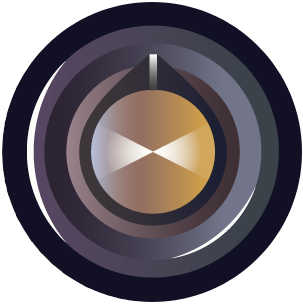
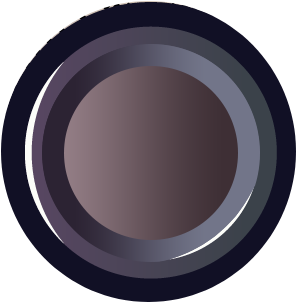
wheel replaced

diff --git a/src/sass/main.scss b/src/sass/main.scss
@@ -139,13 +139,16 @@ button{
     border-radius: 12px;
   }
 }
+
 .wheel-img{
   flex: 0 0 40%;
   text-align: center;
   margin: 16px;
+  background: url(../images/wheel.png) 49% 50% no-repeat;
+  background-size: contain;
+  padding: 32px 0;
   img{
-    width:75%;
-
+    width:50%;
     &:hover{
       animation: infinite-spinning 1s infinite alternate;
     }

diff --git a/src/index.html b/src/index.html
@@ -115,7 +115,7 @@
                         </table>
                     </div>
                     <div class="wheel-img">
-                        <img src="images/wheel.png" alt="">
+                        <img src="images/handler.png" alt="">
                     </div>
                 </div>
 

diff --git a/src/sass/_media.scss b/src/sass/_media.scss
@@ -50,8 +50,11 @@
     position: absolute;
     top:-44px;
   }
-  .wheel-img img{
-    width: 25%;
+  .wheel-img{
+    padding: 16px 0;
+    img{
+      width: 25%;
+    }
   }
   footer{
     margin: 10px 0 4px;
